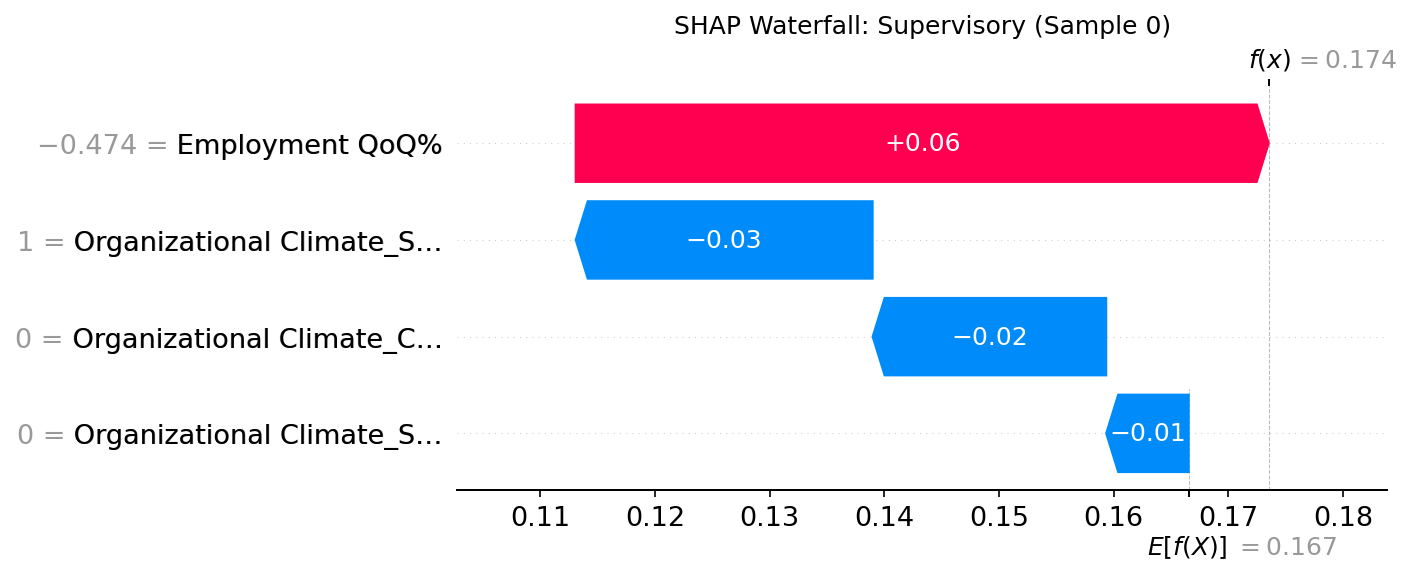
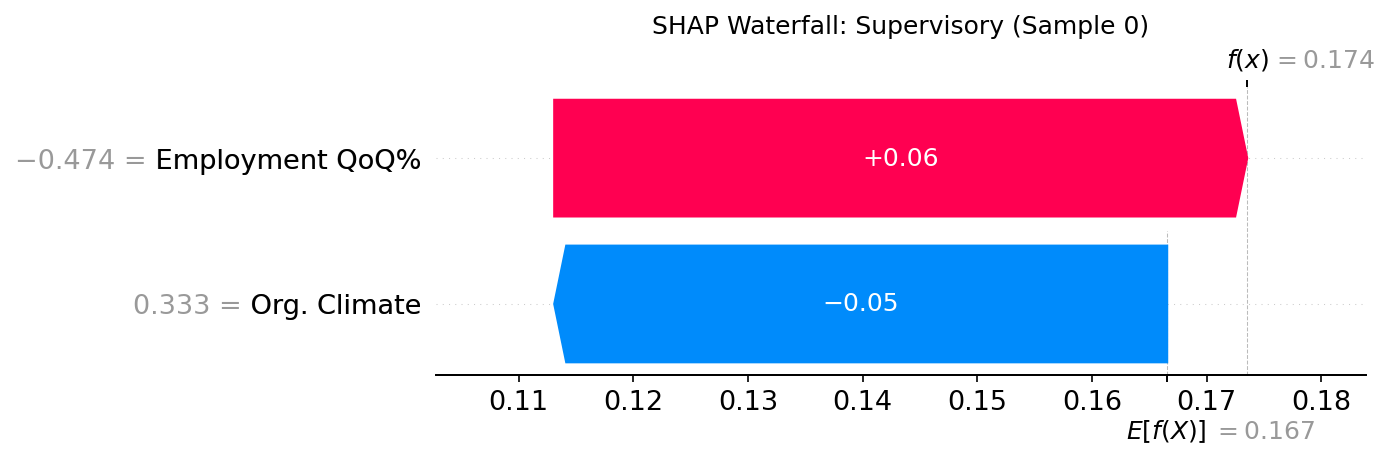
Bug fixes

diff --git a/models/random_forest/eval.py b/models/random_forest/eval.py
@@ -45,17 +45,41 @@ def _predict_cascade(model_1, model_2, model_3, df):
 
     return pred_A, pred_B, pred_C
 
-def _get_feature_names_shap(pipeline):
-    """Recover feature names after ColumnTransformer encoding."""
+def _get_feature_groups(pipeline):
+    """
+    Returns (original_names, group_indices) where group_indices[i] is the list
+    of column indices in the encoded matrix that belong to original feature i.
+    Numerical features map to a single index; OHE categorical features map to
+    all the columns produced for that category.
+    """
     ct = pipeline.named_steps["encoder"]
-    names = []
+    original_names = []
+    group_indices  = []
+    col_idx = 0
     for name, transformer, cols in ct.transformers_:
         if name == "num":
-            names.extend([clean_feature_name(c) for c in cols])
+            for c in cols:
+                original_names.append(clean_feature_name(c))
+                group_indices.append([col_idx])
+                col_idx += 1
         elif name == "cat":
-            raw_ohe = transformer.get_feature_names_out(cols)
-            names.extend([clean_feature_name(n) for n in raw_ohe])
-    return names
+            for orig_col in cols:
+                n_cats = len(transformer.categories_[list(cols).index(orig_col)])
+                original_names.append(clean_feature_name(orig_col))
+                group_indices.append(list(range(col_idx, col_idx + n_cats)))
+                col_idx += n_cats
+    return original_names, group_indices
+
+
+def _aggregate_shap(shap_values, data, group_indices):
+    """
+    Sum SHAP values across OHE columns that belong to the same original feature.
+    data values are averaged across the group (mean-encoded representation).
+    Returns (aggregated_shap, aggregated_data) — shape (n_samples, n_original_features).
+    """
+    agg_shap = np.column_stack([shap_values[:, idx].sum(axis=1) for idx in group_indices])
+    agg_data = np.column_stack([data[:, idx].mean(axis=1) for idx in group_indices])
+    return agg_shap, agg_data
 
 def main():
     FILEPATH    = os.path.join(os.path.dirname(__file__), "..", "..", "data", "scamaap dataset.csv")
@@ -120,44 +144,50 @@ def main():
     ]
 
     for label, pipeline, data in shap_config:
-        rf = pipeline.named_steps["rf"]
+        rf      = pipeline.named_steps["rf"]
         encoder = pipeline.named_steps["encoder"]
-        feat_names = _get_feature_names_shap(pipeline)
 
-        # Transform data and ensure it's a dense array
+        # Build feature groups: maps each original feature → its OHE column indices
+        orig_names, group_indices = _get_feature_groups(pipeline)
+
+        # Transform data to encoded space
         X_tx = encoder.transform(data)
-        if hasattr(X_tx, "toarray"): X_tx = X_tx.toarray()
-        
-        # Use the newer SHAP Explainer interface
-        explainer = shap.TreeExplainer(rf)
-        
-        # Calculate SHAP values - this returns an Explanation object
-        # Using check_additivity=False can prevent errors with some RF configurations
-        exp = explainer(X_tx, check_additivity=False)
-        
-        # FIX: Handle the dimension issue.
-        # exp.shape is (samples, features, classes). We must slice the class dimension.
-        # We take index [:, :, 0] to explain the first class.
-        if len(exp.shape) == 3:
-            exp_slice = exp[:, :, 0]
-        else:
-            exp_slice = exp
-        
-        # Assign the cleaned feature names back to the slice
-        exp_slice.feature_names = feat_names
+        if hasattr(X_tx, "toarray"):
+            X_tx = X_tx.toarray()
 
-        # Summary Plot (Beeswarm)
+        explainer = shap.TreeExplainer(rf)
+        exp = explainer(X_tx, check_additivity=False)
+
+        # Slice to class 0 → shape (n_samples, n_encoded_features)
+        if len(exp.shape) == 3:
+            sv   = exp.values[:, :, 0]
+            data_arr = exp.data[:, :]
+        else:
+            sv   = exp.values
+            data_arr = exp.data
+
+        # Aggregate OHE columns back to original features
+        sv_agg, data_agg = _aggregate_shap(sv, data_arr, group_indices)
+
+        base_val = float(np.mean(exp.base_values[:, 0]) if exp.base_values.ndim > 1
+                         else np.mean(exp.base_values))
+        exp_agg = shap.Explanation(
+            values=sv_agg,
+            base_values=base_val,
+            data=data_agg,
+            feature_names=orig_names,
+        )
+
         plt.figure()
-        shap.plots.beeswarm(exp_slice, max_display=12, show=False)
+        shap.plots.beeswarm(exp_agg, max_display=len(orig_names), show=False)
         plt.title(f"SHAP Summary: {label}")
-        plt.savefig(os.path.join(FIG_DIR, f"rf_shap_summary_{label}.png"), bbox_inches='tight')
+        plt.savefig(os.path.join(FIG_DIR, f"rf_shap_summary_{label}.png"), bbox_inches="tight")
         plt.close()
 
-        # Local Plot (Waterfall) - Explaining first sample
         plt.figure()
-        shap.plots.waterfall(exp_slice[0], max_display=12, show=False)
+        shap.plots.waterfall(exp_agg[0], max_display=len(orig_names), show=False)
         plt.title(f"SHAP Waterfall: {label} (Sample 0)")
-        plt.savefig(os.path.join(FIG_DIR, f"rf_shap_waterfall_{label}.png"), bbox_inches='tight')
+        plt.savefig(os.path.join(FIG_DIR, f"rf_shap_waterfall_{label}.png"), bbox_inches="tight")
         plt.close()
 
     print(f"\nEvaluation finished. Saved results and plots to {RESULTS_DIR} and {FIG_DIR}")
